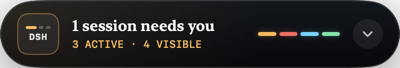
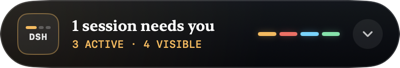
eliminate native corner shadow

diff --git a/scripts/verify-transparent-corners.swift b/scripts/verify-transparent-corners.swift
@@ -19,16 +19,24 @@ for path in CommandLine.arguments.dropFirst() {
     exit(1)
   }
 
-  let cornerPoints = [
-    (0, 0),
-    (image.pixelsWide - 1, 0),
-    (0, image.pixelsHigh - 1),
-    (image.pixelsWide - 1, image.pixelsHigh - 1),
-  ]
-  for (x, y) in cornerPoints {
-    guard let color = image.colorAt(x: x, y: y), color.alphaComponent <= 0.16 else {
-      fputs("PNG corner is not transparent at \(x),\(y): \(path)\n", stderr)
-      exit(1)
+  let probeDepth = min(8, min(image.pixelsWide, image.pixelsHigh) / 8)
+  for xOffset in 0..<probeDepth {
+    for yOffset in 0..<probeDepth {
+      let cornerPoints = [
+        (xOffset, yOffset),
+        (image.pixelsWide - 1 - xOffset, yOffset),
+        (xOffset, image.pixelsHigh - 1 - yOffset),
+        (image.pixelsWide - 1 - xOffset, image.pixelsHigh - 1 - yOffset),
+      ]
+      for (x, y) in cornerPoints {
+        guard let color = image.colorAt(x: x, y: y), color.alphaComponent <= 0.01 else {
+          fputs(
+            "PNG corner alpha \(colorAt(image, x: x, y: y)) exceeds 0.01 at \(x),\(y): \(path)\n",
+            stderr
+          )
+          exit(1)
+        }
+      }
     }
   }
 
@@ -46,4 +54,9 @@ for path in CommandLine.arguments.dropFirst() {
   }
 
   print("transparent rounded corners: \(path)")
+}
+
+private func colorAt(_ image: NSBitmapImageRep, x: Int, y: Int) -> String {
+  guard let color = image.colorAt(x: x, y: y) else { return "unavailable" }
+  return String(format: "%.4f", color.alphaComponent)
 }

diff --git a/Sources/DSHIslandApp/IslandPanel.swift b/Sources/DSHIslandApp/IslandPanel.swift
@@ -61,6 +61,9 @@ final class IslandPanelController: NSObject, NSWindowDelegate {
     hostingController.view.wantsLayer = true
     hostingController.view.layer?.backgroundColor = NSColor.clear.cgColor
     hostingController.view.layer?.isOpaque = false
+    hostingController.view.layer?.cornerCurve = .continuous
+    hostingController.view.layer?.cornerRadius = collapsedSize.height / 2
+    hostingController.view.layer?.masksToBounds = true
     panel.contentViewController = hostingController
     restorePosition()
   }
@@ -82,6 +85,7 @@ final class IslandPanelController: NSObject, NSWindowDelegate {
   /// Resizes around a fixed top-center anchor so expansion unfolds downward.
   func setExpanded(_ expanded: Bool, animated: Bool = true) {
     let targetSize = expanded ? expandedSize : collapsedSize
+    panel.contentViewController?.view.layer?.cornerRadius = expanded ? 28 : collapsedSize.height / 2
     let oldFrame = panel.frame
     if abs(oldFrame.width - targetSize.width) < 0.5,
       abs(oldFrame.height - targetSize.height) < 0.5

diff --git a/Sources/DSHIslandApp/IslandView.swift b/Sources/DSHIslandApp/IslandView.swift
@@ -66,7 +66,6 @@ struct IslandView: View {
           lineWidth: contrast == .increased ? 1.5 : 1
         )
     }
-    .shadow(color: Color.black.opacity(0.46), radius: 24, y: 10)
     .animation(
       reduceMotion ? .easeOut(duration: 0.12) : .spring(response: 0.32, dampingFraction: 0.86),
       value: model.isExpanded

diff --git a/docs/product-design.md b/docs/product-design.md
@@ -18,7 +18,7 @@ The interface follows an aeronautical-instrument aesthetic: an obsidian capsule,
 
 The memorable element is the signal rail. Each visible session contributes a short segment colored by its state; the highest-priority segment leads. It makes several concurrent Agents legible without turning the island into a dashboard.
 
-The native window and hosting surface remain transparent outside the continuous rounded capsule. Product screenshots preserve that alpha channel, and composed community artwork clips the screenshot to the same radius as a second safeguard.
+The native window and hosting surface remain fully transparent outside the continuous rounded capsule. The capsule uses its internal gradient and border for separation instead of an outer shadow, because shadow pixels clipped to the rectangular window frame become visible corner blocks on light desktops. The native hosting layer enforces the same continuous corner radius as SwiftUI. Product screenshots preserve that alpha channel, and composed community artwork clips the screenshot to the same radius as a second safeguard.
 
 ### Visual tokens
 
@@ -134,4 +134,4 @@ Not included:
 12. Given Reduce Motion is enabled, when state changes or the island expands, then no repeating pulse or spring animation is used.
 13. Given a local DSH Web instance at a non-default port, when the endpoint is saved, then the app reconnects without restart and persists the normalized URL.
 14. Given the optional deep-link plugin is absent, when a session row is clicked, then the DSH Web UI still opens and the island remains operational.
-15. Given either island state over any desktop color, when the native window or a published preview is rendered, then pixels outside the continuous rounded capsule remain transparent and no rectangular corner background is visible.
+15. Given either island state over any desktop color, when the native window or a published preview is rendered, then the corner regions outside the continuous rounded capsule have at most 0.01 alpha and no rectangular corner background is visible.

diff --git a/docs/validation.md b/docs/validation.md
@@ -23,6 +23,6 @@ The application established the two published downlink WebSockets plus an HTTP k
 
 ## Community-media privacy check
 
-The community preview update ran `./scripts/render-marketing-assets.sh` against repository-local fixtures and encoded four state frames into a 1200×720, 7.5-second GIF. Product screenshots come from macOS window capture, retain transparent rounded corners, and pass an alpha-channel and corner-pixel gate before composition. The marketing template applies a second rounded clip. The desktop and editor context is synthetic HTML; the DSH Island pixels come from the deterministic `--demo-working`, `--demo`, and `--demo-expanded` modes. No live DSH Host, personal desktop, browser profile, home path, account, notification, or session was used.
+The community preview update ran `./scripts/render-marketing-assets.sh` against repository-local fixtures and encoded four state frames into a 1200×720, 7.5-second GIF. Product screenshots come from macOS window capture, retain transparent rounded corners, and pass an alpha-channel gate that limits every sampled corner-region pixel to 0.01 alpha before composition. The marketing template applies a second rounded clip. The desktop and editor context is synthetic HTML; the DSH Island pixels come from the deterministic `--demo-working`, `--demo`, and `--demo-expanded` modes. No live DSH Host, personal desktop, browser profile, home path, account, notification, or session was used.
 
 `swift test` passed all 28 tests. The strict release build, `bash -n scripts/build-app.sh scripts/capture-product-assets.sh scripts/render-marketing-assets.sh`, `git diff --check`, PNG/GIF format and dimension checks, final-GIF decode inspection, metadata inspection, OCR scanning, and binary-string scanning passed. The privacy scans looked for a home path, local username, Feishu identifiers, conversation identifiers, email addresses, API-key labels, and token labels; none appeared in the published media.

diff --git a/docs/marketing/README.md b/docs/marketing/README.md
@@ -2,7 +2,7 @@
 
 The repository's screenshots and GIFs must never depend on a user's live DSH Host, desktop, home directory, account, notifications, or browser state.
 
-`capture-product-assets.sh` launches the deterministic app fixtures and uses macOS window capture so the product PNGs retain transparent rounded corners. The script rejects any capture without an alpha channel or with an opaque corner. `preview.html` adds a second rounded clip while rendering a synthetic developer workspace. Its visible files, code, session titles, Todo text, status counts, and paths are invented for the demo. The source uses only repository-local assets and system fonts; it performs no network requests and contains no analytics.
+`capture-product-assets.sh` launches the deterministic app fixtures and uses macOS window capture so the product PNGs retain transparent rounded corners. The script rejects any capture without an alpha channel or with more than 0.01 alpha anywhere in its sampled corner regions. `preview.html` adds a second rounded clip while rendering a synthetic developer workspace. Its visible files, code, session titles, Todo text, status counts, and paths are invented for the demo. The source uses only repository-local assets and system fonts; it performs no network requests and contains no analytics.
 
 Run `./scripts/render-marketing-assets.sh` on macOS with Google Chrome and ffmpeg installed to recapture the product and create:
 
